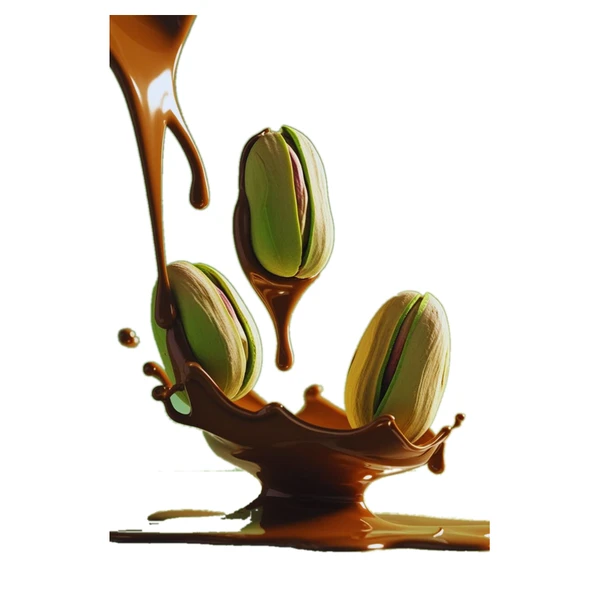
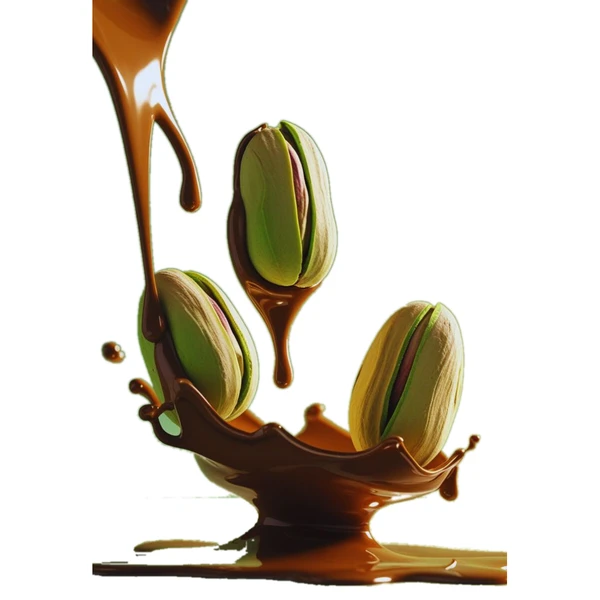
Batidor quieto, sin salpicaduras; pistachos encuadrados más grandes
Claude-Session: https://claude.ai/code/session_01C6bfWHa45MuNYMQfMCjhxp

Changed region(s): [[0.15, 0.0, 0.87, 0.99]]

diff --git a/index.html b/index.html
@@ -1256,7 +1256,7 @@ function cartWhatsappUrl(){return 'https://wa.me/'+SHOP.whatsapp+'?text='+encode
  // ---- Batidor: bate en vaivén (con giro 3D); la mezcla de chocolate se desprende del propio batidor en hilos y salpicaduras chicas ----
  var CH=[[.43,.672],[.291,.529],[.428,.724],[.253,.538],[.558,.646],[.581,.613],[.341,.672],[.523,.622],[.499,.595],[.297,.738],[.263,.602],[.353,.711],[.398,.699],[.329,.737],[.372,.71],[.29,.732],[.281,.725],[.318,.75],[.257,.722],[.356,.677],[.383,.679],[.309,.751]];
  var prevW=0;
- setup(document.querySelector('.batidor-img'),{padL:.6,padR:.15,padT:.15,padB:.7,origin:[.93,.04],
+ /* batidor: quieto (sin animación ni salpicaduras) */ (function(){return null})({padL:.6,padR:.15,padT:.15,padB:.7,origin:[.93,.04],
   angle:function(T){return 9*Math.sin(T*5.2)+3*Math.sin(T*2.1)},
   css:function(T,a){return 'translateY('+(Math.sin(T*4.8)*4).toFixed(1)+'px) perspective(600px) rotateY('+(24*Math.sin(T*2.4)).toFixed(1)+'deg) rotateX(6deg) rotate('+(a*.3).toFixed(2)+'deg)'},
   emit:function(P,T,dt,m,iw){
